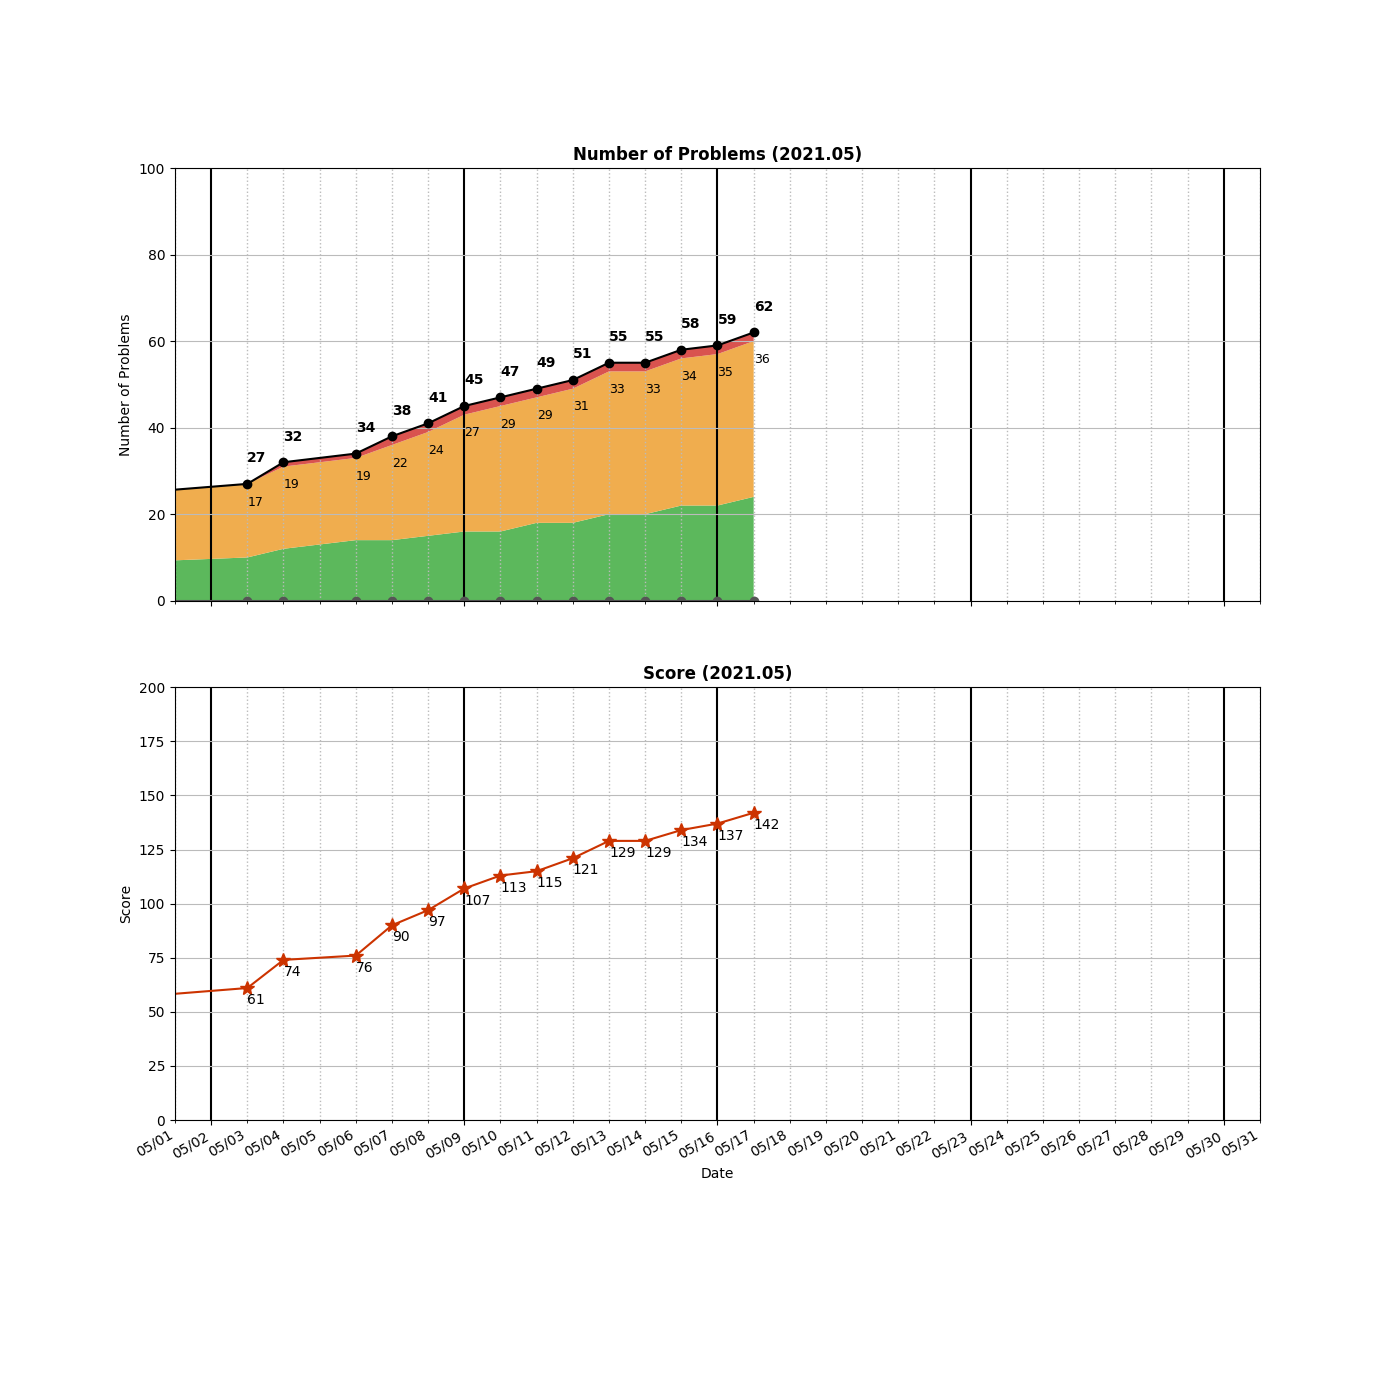
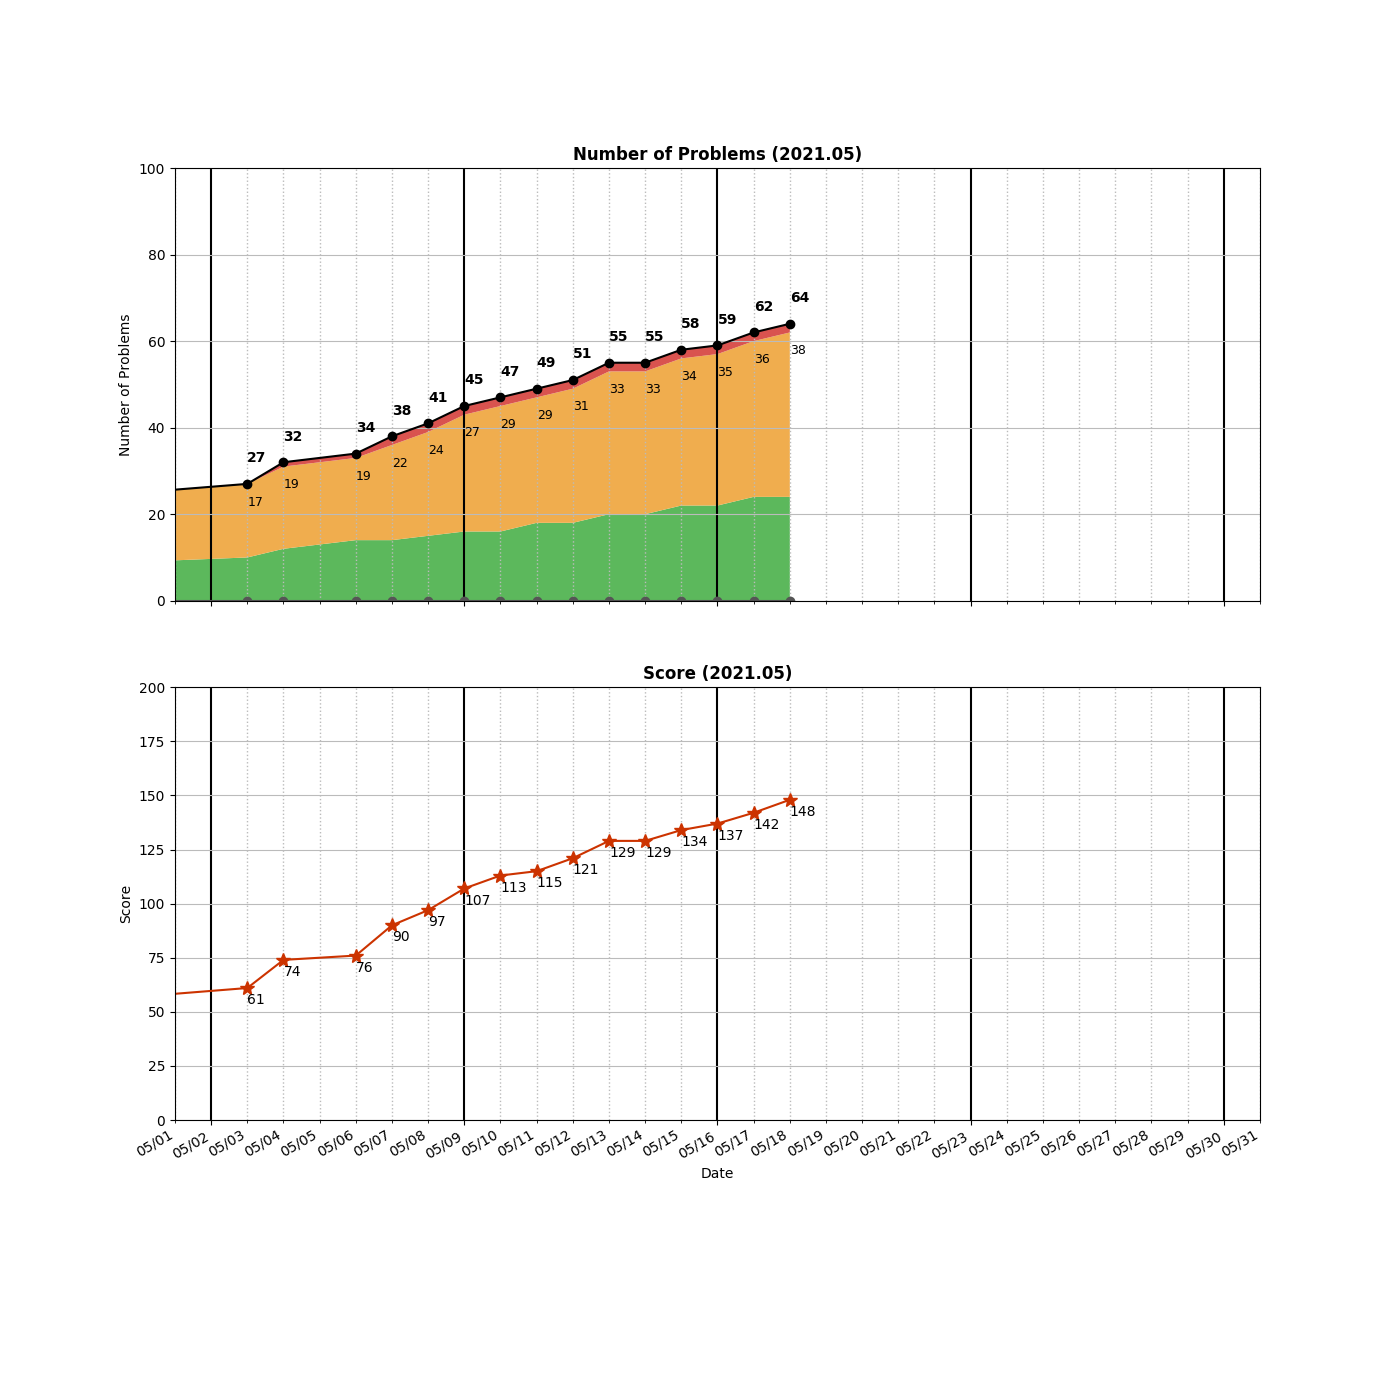
Added __0173__Binary Search Tree Iterator.py

Changed region(s): [[0.5221, 0.215, 0.5836, 0.43], [0.5529, 0.5529, 0.5836, 0.5836]]

diff --git a/algo/Tree/__0173__Binary Search Tree Iterator.py b/algo/Tree/__0173__Binary Search Tree Iterator.py
@@ -1,0 +1,40 @@
+# Definition for a binary tree node.
+# class TreeNode:
+#     def __init__(self, val=0, left=None, right=None):
+#         self.val = val
+#         self.left = left
+#         self.right = right
+class BSTIterator:
+    
+    
+    # Iterative inorder traversal [O(n), 90%]
+    def __init__(self, root: TreeNode):
+        dummy = TreeNode(0)
+        dummy.right = root
+        self.stack = [dummy]
+        self.next() #From dummy to root
+
+    def next(self) -> int:
+        cur = self.stack.pop()  
+        nextNode = cur  #keep current node at cur so that we can return 
+        
+        if not nextNode:      
+            return -1  #shouldn't reach this line 
+        
+        #Core logic
+        if nextNode.right:
+            nextNode = nextNode.right
+            while nextNode:
+                self.stack.append(nextNode)
+                nextNode = nextNode.left
+                
+        return cur.val
+
+    def hasNext(self) -> bool:
+        return len(self.stack) != 0
+        
+
+# Your BSTIterator object will be instantiated and called as such:
+# obj = BSTIterator(root)
+# param_1 = obj.next()
+# param_2 = obj.hasNext()

diff --git a/README.md b/README.md
@@ -64,7 +64,9 @@ algo
 │   ├── __0100__Same\ Tree.py
 │   ├── __0101__Symmetric\ Tree.py
 │   ├── __0108__Convert\ Sorted\ Array\ to\ Binary\ Search\ Tree.py
+│   ├── __0114__Flatten\ Binary\ Tree\ to\ Linked\ List.py
 │   ├── __0144__Binary\ Tree\ Preorder\ Traversal.py
+│   ├── __0173__Binary\ Search\ Tree\ Iterator.py
 │   ├── __0226__Invert\ Binary\ Tree.py
 │   ├── __0230__Kth\ Smallest\ Element\ in\ a\ BST.py
 │   ├── __0235__Lowest\ Common\ Ancestor\ of\ a\ Binary\ Search\ Tree.py
@@ -77,7 +79,7 @@ algo
     ├── __0003__Longest\ Substring\ Without\ Repeating\ Characters.py
     └── __0167__Two\ Sum\ II\ -\ Input\ array\ is\ sorted.py
 
-14 directories, 62 files
+14 directories, 64 files
 
 =====================================
 ============= Local Repo ============
@@ -110,6 +112,7 @@ __0108__Convert Sorted Array to Binary Search Tree.py
 __0111__Minimum Depth of Binary Tree.py
 __0112__Path Sum.py
 __0113__Path Sum II.py
+__0114__Flatten Binary Tree to Linked List.py
 __0121__Best Time to Buy and Sell Stock.py
 __0122__Best Time to Buy and Sell Stock II.py
 __0127__Word Ladder.py
@@ -119,6 +122,7 @@ __0153__Find Minimum in Rotated Sorted Array.py
 __0155__Min Stack.py
 __0162__Find Peak Element.py
 __0167__Two Sum II - Input array is sorted.py
+__0173__Binary Search Tree Iterator.py
 __0199__Binary Tree Right Side View.py
 __0200__Number of Islands.py
 __0206__Reverse Linked List.py
@@ -145,7 +149,7 @@ __0704__Binary Search.py
 __0706__Design HashMap.py
 __0863__All Nodes Distance K in Binary Tree.py
 =====================================
-Num of Python Practice:  62
+Num of Python Practice:  64
 
 
 =====================================
@@ -179,6 +183,7 @@ Num of Python Practice:  62
  0111 Minimum Depth of Binary Tree
  0112 Path Sum
  0113 Path Sum II
+ 0114 Flatten Binary Tree to Linked List
  0121 Best Time to Buy and Sell Stock
  0122 Best Time to Buy and Sell Stock II
  0127 Word Ladder
@@ -188,6 +193,7 @@ Num of Python Practice:  62
  0155 Min Stack
  0162 Find Peak Element
  0167 Two Sum II - Input array is sorted
+ 0173 Binary Search Tree Iterator
  0199 Binary Tree Right Side View
  0200 Number of Islands
  0206 Reverse Linked List
@@ -215,10 +221,10 @@ Num of Python Practice:  62
  0863 All Nodes Distance K in Binary Tree
 =====================================
 Solved / Total (Easy)  :   24 /  491
-Solved / Total (Medium):   36 /  982
+Solved / Total (Medium):   38 /  982
 Solved / Total (Hard)  :    2 /  394
-Solved / Total (All)   :   62 / 1867
-Total Score            :  142
+Solved / Total (All)   :   64 / 1867
+Total Score            :  148
 =====================================
 
 ```
